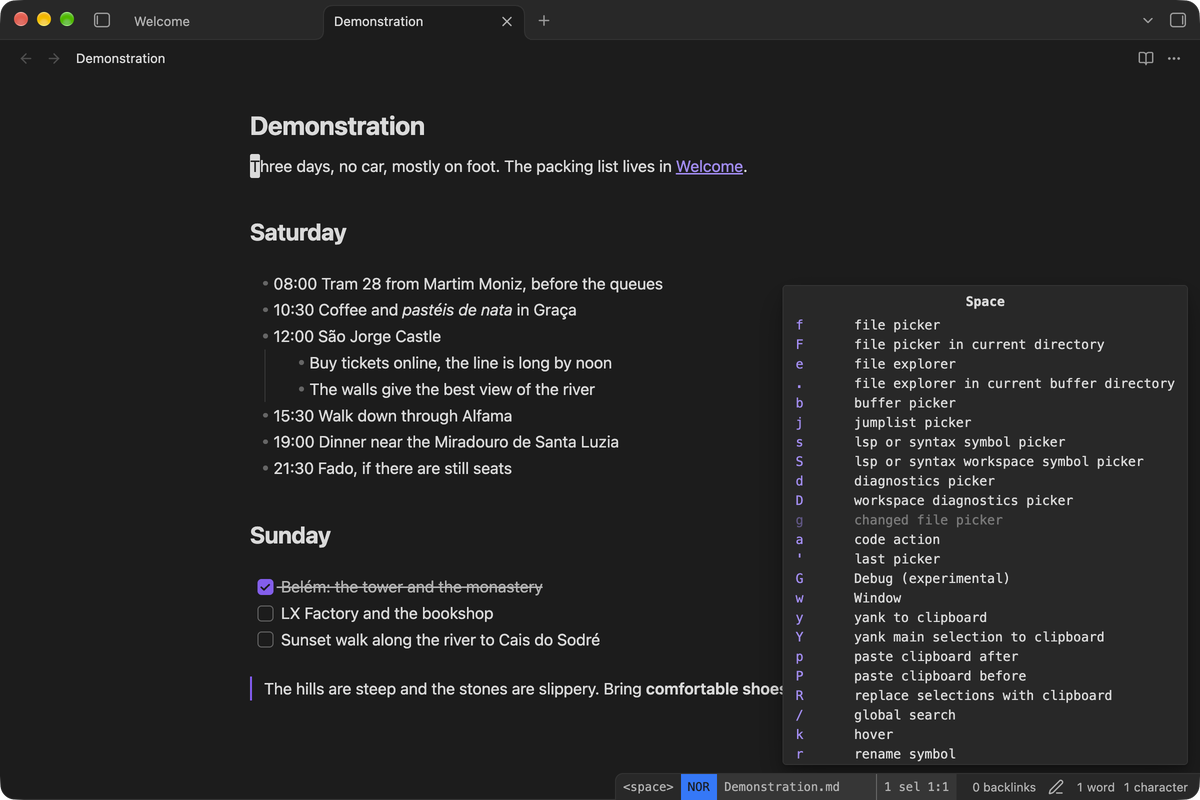
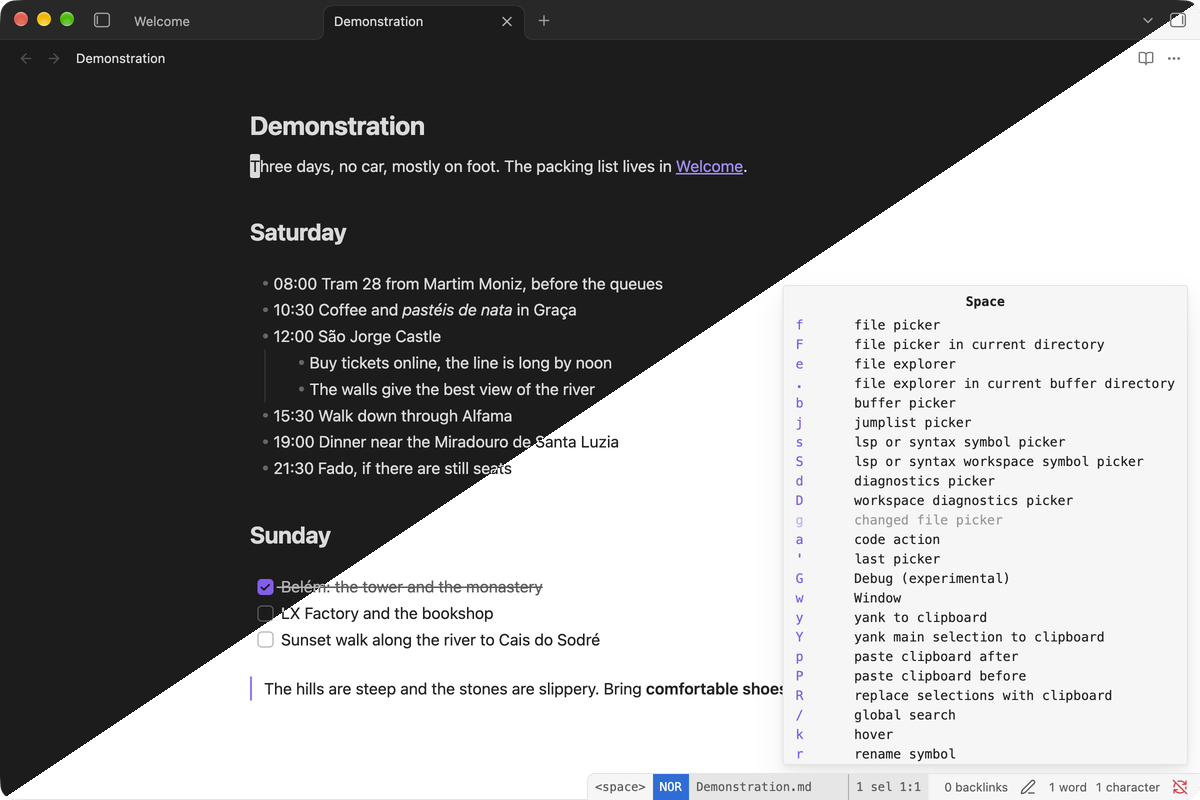
Screenshots in dark, light, and both split along the diagonal

diff --git a/README.md b/README.md
@@ -11,7 +11,7 @@ The port follows Helix at commit `ba40e54742`, with [PR #16370](https://github.c
 
 ![Six cursors from one regex select, with the selection count in Helix's statusline](docs/screenshots/1-multiple-cursors.png)
 
-More in [docs/screenshots](docs/screenshots): the `Space` menu, a selection grown by the syntax tree, typed commands and jump labels.
+More in [docs/screenshots](docs/screenshots), each in dark, light and both: the `Space` menu, a selection grown by the syntax tree, typed commands and jump labels.
 
 ## Install
 
